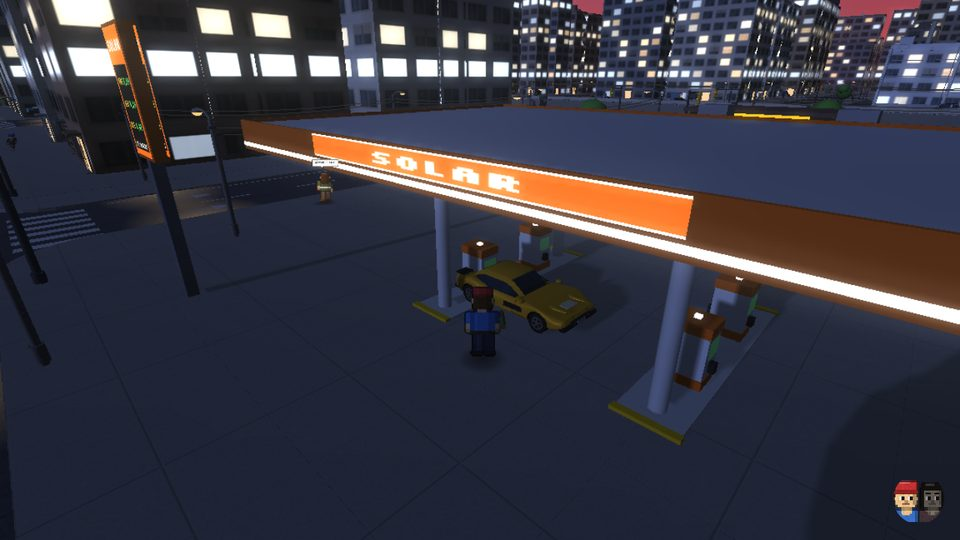
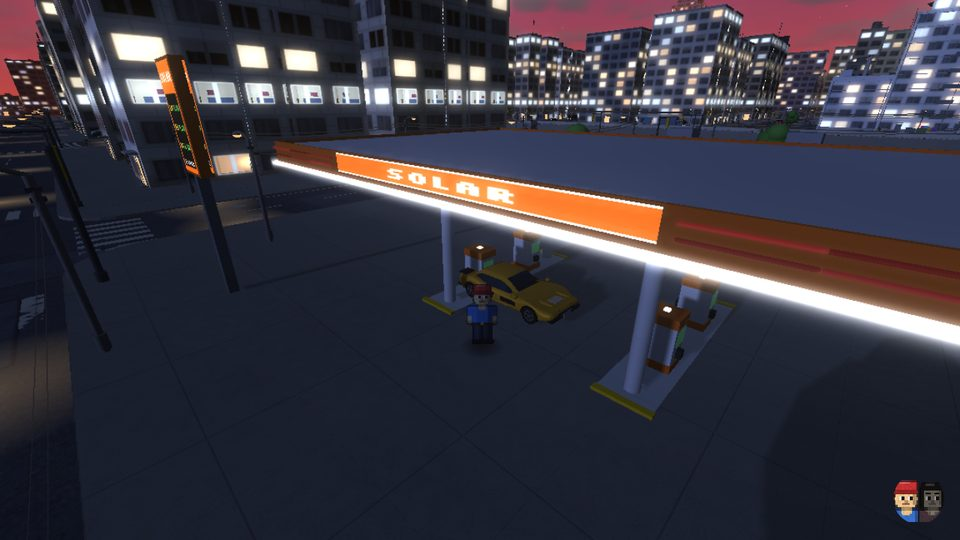
postos: neon da cobertura em tubo grosso com halo, 2 barras vermelhas fracas e sem falha a noite
Claude-Session: https://claude.ai/code/session_012roamZAz22JRDKZ6w9TpPT

diff --git a/js/06-posto-rodas.js b/js/06-posto-rodas.js
@@ -180,6 +180,15 @@ function gasVisual(st){const{W,D,ch}=st;const F0=st.F;if(!F0)return;const F={...
  const NE=burnt?d:n,cyl=(x,y0,y1,z,r,col)=>d.geo(GEO.cyl,mtx(x,(y0+y1)/2,z,r,y1-y0,r),col);
  const Wc=st.Wc||W,cu0=Wc*.14,cu1=Wc*.86,cv0=4.5,cv1=16.5,isl=st.isl,[sv0,sv1]=st.sv.map(v=>v+GAS_SHIFT),[su0,su1]=st.su||[W*.2,W*.8],sw=su1-su0,sc=(su0+su1)/2,SU=f=>su0+(f-.2)/.6*sw;
  const rf=new MB();rf.ab=1;st.roofSigns=[]; /* v4 r5: laje da cobertura num lote próprio, para ficar transparente na vista de cima */
+ /* v4 r19: neon da borda da cobertura em TUBO (cilindro com pontas redondas) + halo aditivo (lote gasHalo, 1 malha por posto) e
+    2 barras vermelhas fracas ("neon velho"). e = borda em coordenadas locais (u,v) na face externa: [u0,v0,u1,v1,du,dv]; gap = trecho sem tubo (letreiro) */
+ const hal=[],WT=COL('#ffffff'),tubeSeg=(e,t0,t1,y,r,col,mb,hk,caps,hw=1)=>{const[u0,v0,u1,v1,du,dv]=e,o=r+.012,ua=u0+(u1-u0)*t0+du*o,va=v0+(v1-v0)*t0+dv*o,ub=u0+(u1-u0)*t1+du*o,vb=v0+(v1-v0)*t1+dv*o,A=F.p3(ua,y,va),B=F.p3(ub,y,vb);
+   wseg(mb,A[0],A[1],A[2],B[0],B[1],B[2],r,col,GEO.cyl);if(caps)for(const Q of [A,B])mb.geo(GEO.bulb,mtx(Q[0],Q[1],Q[2],r,r,r),col);
+   if(hk>0&&!burnt){const O=F.p3(ua+du,y,va+dv);hal.push(A,B,[O[0]-A[0],O[2]-A[2]],r*hw,col,hk)}},
+  tube=(e,y,r,col,mb,hk,gap,dim,hw)=>{const L=Math.hypot(e[2]-e[0],e[3]-e[1]),cuts=[[0,1]];if(gap){const a=(gap[0]-Math.min(e[0],e[2]))/L,b=(gap[1]-Math.min(e[0],e[2]))/L;if(b>0&&a<1){cuts.length=0;if(a>.02)cuts.push([0,a]);if(b<.98)cuts.push([b,1])}}
+   for(const[c0,c1] of cuts){if(!dim){tubeSeg(e,c0,c1,y,r,col,mb,hk,true,hw);continue}
+    const n=Math.max(1,Math.round((c1-c0)*L/1.6)),gp=.02/L;for(let i=0;i<n;i++){const h=((i*37+Math.round(e[0]*7+e[1]*13+y*29))%11)/10,k=.55+.45*h;tubeSeg(e,c0+(c1-c0)*i/n+(i?gp:0),c0+(c1-c0)*(i+1)/n-(i<n-1?gp:0),y,r,col.clone().multiplyScalar(k),mb,hk*k,i===0||i===n-1)}}}, /* segmentos com 4 cm de folga (tubos separados, como neon de verdade; sem tampas coladas = sem z-fight) */
+  RDIM=COL('#ff2a2a').multiplyScalar(.36);
  // pátio: concreto mais claro sob a cobertura + mancha de queimado
  F.box(cu0-1,cu1+1,cv0-1,cv1+1,.26,.285,C(night?'#5a5468':'#b8b4aa'),d);
  if(burnt){for(let k=0;k<5;k++){const p=F.pt(W*(.3+.1*k),9+((k*37)%5));d.box(p[0]-3.5,.285,p[1]-3.2,p[0]+3.5,.29,p[1]+3.2,COL('#0c0b0a'))}}
@@ -197,16 +206,23 @@ function gasVisual(st){const{W,D,ch}=st;const F0=st.F;if(!F0)return;const F={...
   const a0=cu0-3.5,a1=cu1+3.5,b0=cv0+1.2,b1=cv1-1.2,y=5.5-sag;
   F.box(a0,a1,b0,b1,y+.18,y+.36,white,rf);F.box(a0+1,a1-1,b0+.6,b1-.6,y,y+.18,under,rf);
   F.box(a0,a1,b0-.06,b0,y+.12,y+.36,red,rf);F.box(a0,a1,b1,b1+.06,y+.12,y+.36,red,rf);F.box(a0-.06,a0,b0,b1,y+.12,y+.36,red,rf);F.box(a1,a1+.06,b0,b1,y+.12,y+.36,red,rf);
-  if(!burnt){F.box(a0,a1,b0-.1,b0-.06,y+.2,y+.28,COL('#ff3a3a'),n);F.box(a0,a1,b1+.06,b1+.1,y+.2,y+.28,COL('#ff3a3a'),n)}
+  {const E=[[a0-.06,b0-.06,a1+.06,b0-.06,0,-1],[a0-.06,b1+.06,a1+.06,b1+.06,0,1],[a0-.06,b0-.06,a0-.06,b1+.06,-1,0],[a1+.06,b0-.06,a1+.06,b1+.06,1,0]];
+   for(const e of E){tube(e,y+.24,.055,burnt?C('#ff3a3a'):COL('#ff4a40'),burnt?d:n,1,null,false,.55);if(!burnt)for(const yy of [y+.13,y+.35])tube(e,yy,.028,RDIM,n,.3,null,true)}} /* v4 r19: tubo vermelho grosso nas 4 bordas + 2 barras vermelhas fracas (antes 2 faixas chapadas de 8 cm só na frente e atrás) */
   for(const u of isl)for(const sd of [-1,1]){const A=F.p3(u,.28,10.7+sd*2.7),Bp=F.p3(u,y+.05,10.7+sd*.3);wseg(d,A[0],A[1],A[2],Bp[0],Bp[1],Bp[2],.16,red,GEO.cyl)}
   if(!burnt)for(let u=a0+2;u<a1-1.5;u+=3.4){const p=F.pt(u,b0+1.5),q=F.pt(u+1.4,b1-1.5);n.box(Math.min(p[0],q[0]),y-.04,Math.min(p[1],q[1]),Math.max(p[0],q[0]),y,Math.max(p[1],q[1]),COL('#fff6dc'))}
   if(!burnt&&night){const a=F.pt(a0,b0),b=F.pt(a1,b1);gl.flat(Math.min(a[0],b[0]),Math.min(a[1],b[1]),Math.max(a[0],b[0]),Math.max(a[1],b[1]),.3,COL('#fff2c8').multiplyScalar(.28))}
   {const c=cv(256,96),g=c.getContext('2d');g.font='900 84px Impact,Arial Black,sans-serif';g.textAlign='center';g.textBaseline='middle';g.lineWidth=10;g.strokeStyle='#ffffff';g.strokeText('GAS',128,52);g.fillStyle=burnt?'#2a1a1a':'#d8202a';g.fillText('GAS',128,52);
    const t=new THREE.CanvasTexture(c);const mt0=new THREE.MeshBasicMaterial({map:t,transparent:true,side:THREE.DoubleSide}),mt=S.style==='inverted'?unlitSignMat(mt0):mt0;const m=new THREE.Mesh(new THREE.PlaneGeometry(3.6,1.35),mt),p=F.p3(a0+2.4,y+1.05,b0+.4);m.position.set(p[0],p[1],p[2]);m.rotation.y=Math.atan2(st.nrm[0],st.nrm[1]);grp.add(m);st.roofSigns.push(m)}
- }else if(!burnt||true){const sag=burnt?.35:0;F.box(cu0,cu1,cv0,cv1,5.2-sag,5.95-sag,C(br.vc?'#f0dcd2':'#cfd0d4'),rf);for(const[a0,a1,b0,b1] of [[cu0-.08,cu1+.08,cv0-.08,cv0],[cu0-.08,cu1+.08,cv1,cv1+.08],[cu0-.08,cu0,cv0,cv1],[cu1,cu1+.08,cv0,cv1]]){F.box(a0,a1,b0,b1,5.2-sag,6.05-sag,C(br.a),rf);F.box(a0-.01,a1+.01,b0-.01,b1+.01,5.3-sag,5.42-sag,C(br.b),burnt?d:NE)}
+ }else if(!burnt||true){const sag=burnt?.35:0;F.box(cu0,cu1,cv0,cv1,5.2-sag,5.95-sag,C(br.vc?'#f0dcd2':'#cfd0d4'),rf);for(const[a0,a1,b0,b1] of [[cu0-.08,cu1+.08,cv0-.08,cv0],[cu0-.08,cu1+.08,cv1,cv1+.08],[cu0-.08,cu0,cv0,cv1],[cu1,cu1+.08,cv0,cv1]]){F.box(a0,a1,b0,b1,5.2-sag,6.05-sag,C(br.a),rf)} /* v4 r19: a faixa chapada de neon (5,3–5,42, a 1 cm da face) virou tubo (abaixo) */
   if(!burnt)for(let u=cu0+2;u<cu1-1;u+=3.2)for(const v of [7,10.5,14]){const a=F.pt(u,v-.5),b=F.pt(u+1.6,v+.5);n.box(Math.min(a[0],b[0]),5.15,Math.min(a[1],b[1]),Math.max(a[0],b[0]),5.2,Math.max(a[1],b[1]),COL('#fff6dc'))}
   if(!burnt&&night){const a=F.pt(cu0,cv0),b=F.pt(cu1,cv1);gl.flat(Math.min(a[0],b[0]),Math.min(a[1],b[1]),Math.max(a[0],b[0]),Math.max(a[1],b[1]),.3,COL('#fff2c8').multiplyScalar(.28))}
-  if(VC){for(const y of [5.3-sag,5.88-sag]){for(const[v0,v1] of [[cv0-.24,cv0-.08],[cv1+.08,cv1+.24]]){F.box(cu0-.24,Wc/2,v0,v1,y,y+.16,PK,n);F.box(Wc/2,cu1+.24,v0,v1,y,y+.16,CY,n)}F.box(cu0-.24,cu0-.08,cv0-.08,cv1+.08,y,y+.16,PK,n);F.box(cu1+.08,cu1+.24,cv0-.08,cv1+.08,y,y+.16,CY,n)}
+  {const g0=cu0-.08,g1=cu1+.08,h0=cv0-.08,h1=cv1+.08,sgw=Math.min(9,(cu1-cu0)*.5),gap=[Wc/2-sgw/2-.25,Wc/2+sgw/2+.25],
+    EF=[g0,h0,g1,h0,0,-1],EB=[g0,h1,g1,h1,0,1],EL=[g0,h0,g0,h1,-1,0],ER=[g1,h0,g1,h1,1,0];
+   if(VC){/* Synthwave: rosa na metade esquerda, ciano na direita, em dois níveis */
+    for(const[y,r,gp] of [[5.32-sag,.075,null],[5.95-sag,.06,gap]]){for(const e of [EF,EB]){tube([g0,e[1],Wc/2,e[1],0,e[5]],y,r,PK,n,1,gp);tube([Wc/2,e[1],g1,e[1],0,e[5]],y,r,CY,n,1,gp)}tube(EL,y,r,PK,n,1);tube(ER,y,r,CY,n,1)}
+    for(const yy of [5.56-sag,5.76-sag])for(const e of [EF,EB,EL,ER])tube(e,yy,.032,RDIM,n,.22,e===EF?gap:null,true)}
+   else{for(const e of [EF,EB,EL,ER]){tube(e,5.32-sag,.075,burnt?C(br.b):COL(br.b),NE,1);if(!burnt)for(const yy of [5.62,5.84])tube(e,yy,.032,RDIM,n,.22,e===EF?gap:null,true)}}} /* v4 r19: tubo grosso (raio 7,5 cm) + 2 barras vermelhas fracas; no Synth substitui as faixas de 16 cm */
+  if(VC){
    for(const[a0,a1,col] of [[cu0-3,Wc/2,PK],[Wc/2,cu1+3,CY]]){const a=F.pt(a0,cv0-3),b=F.pt(a1,cv1+3);gl.flat(Math.min(a[0],b[0]),Math.min(a[1],b[1]),Math.max(a[0],b[0]),Math.max(a[1],b[1]),.3,col.clone().multiplyScalar(.42))}}
   const sm0=gasTex('can',br,burnt),sm=S.style==='inverted'?unlitSignMat(sm0):sm0,sg=new THREE.PlaneGeometry(Math.min(9,(cu1-cu0)*.5),.52),m=new THREE.Mesh(sg,sm),p=F.p3(Wc/2,5.75-sag,cv0-.08);st.roofSigns.push(m);m.position.set(p[0]+st.nrm[0]*.02,p[1],p[2]+st.nrm[1]*.02);m.rotation.y=Math.atan2(st.nrm[0],st.nrm[1]);grp.add(m)}
  // loja de conveniência
@@ -237,9 +253,24 @@ function gasVisual(st){const{W,D,ch}=st;const F0=st.F;if(!F0)return;const F={...
   if(!burnt&&night)n.box(p[0]-1.05,8.6,p[1]-1.05,p[0]+1.05,8.7,p[1]+1.05,COL(br.b))}
  if(st.wash)try{washBuild(st,grp,C,d,n)}catch(e){console.error(e)}
  const add=(mb,mat,ro)=>{const m=mb.mesh(mat,true,true);if(m){grp.add(m);if(ro)m.renderOrder=ro}return m};add(d,M.solid);
- {const b=M.solid,mt=b.clone();mt.onBeforeCompile=b.onBeforeCompile;mt.customProgramCacheKey=b.customProgramCacheKey;mt.userData={...b.userData,cached:false};const m=add(rf,mt);st.roof=m?{m,mat:mt,a:1}:null}add(n,M.neon);add(h,M.hwinSoft||M.hwin);if(!city.st.noLamps)add(gl,M.glow,2);
+ {const b=M.solid,mt=b.clone();mt.onBeforeCompile=b.onBeforeCompile;mt.customProgramCacheKey=b.customProgramCacheKey;mt.userData={...b.userData,cached:false};const m=add(rf,mt);st.roof=m?{m,mat:mt,a:1}:null}add(n,M.neonSt||M.neon);add(h,M.hwinSoft||M.hwin);if(!city.st.noLamps)add(gl,M.glow,2); /* v4 r19: neon do posto fixo (M.neonSt: sem zumbido nem falha por célula de 12 m, que fazia o posto da cidade "falhar" à noite) */
+ if(hal.length&&!burnt&&!city.st.noLamps){const m=gasHaloMesh(hal);if(m){grp.add(m);m.renderOrder=3}}
  grp.position.y=-.24; // v77: sem o piso elevado: o pátio do posto assenta no concreto novo
  if(ch&&city.chunks.get(ch.key)===ch)ch.group.add(grp)}
+/* v4 r19: halo dos tubos de neon do posto. Faixa vertical aditiva na frente de cada tubo, com pontas redondas (3 quads: ponta, meio, ponta);
+   textura = núcleo claro estreito + brilho largo. Halos de alturas diferentes ficam a 6–12 mm um do outro (planos coincidentes contam como z-fight no detector). Material único (GAS.haloMat, cached); a opacidade acompanha o anoitecer em updateDayNight. */
+function gasHaloMat(){if(GAS.haloMat)return GAS.haloMat;const c=cv(64,64),g=c.getContext('2d'),im=g.createImageData(64,64);
+ for(let j=0;j<64;j++)for(let i=0;i<64;i++){const dx=(i+.5)/32-1,dy=(j+.5)/32-1,dd=Math.min(1,Math.hypot(dx,dy)),v=Math.min(1,Math.exp(-(dd/.13)*(dd/.13))*.9+Math.exp(-(dd/.5)*(dd/.5))*.42)*(1-dd*dd),q=(j*64+i)*4;im.data[q]=im.data[q+1]=im.data[q+2]=Math.round(255*v);im.data[q+3]=255}
+ g.putImageData(im,0,0);const t=new THREE.CanvasTexture(c);t.wrapS=t.wrapT=THREE.ClampToEdgeWrapping;
+ const m=jammerBasicMaterial(new THREE.MeshBasicMaterial({map:t,vertexColors:true,transparent:true,blending:THREE.AdditiveBlending,depthWrite:false,side:THREE.DoubleSide,polygonOffset:true,polygonOffsetFactor:-2,polygonOffsetUnits:-2}));m.userData.cached=true;GAS.haloMat=m;return m}
+function gasHaloMesh(H){const nq=H.length/6*3,pos=new Float32Array(nq*18),uv=new Float32Array(nq*12),col=new Float32Array(nq*18);let k=0;const W=new THREE.Color(1,1,1),cc=new THREE.Color();
+ const quad=(ax,az,bx,bz,y,w,ox,oz,ua,ub,c)=>{const v=[[ax,y-w,az,ua,0],[bx,y-w,bz,ub,0],[bx,y+w,bz,ub,1],[ax,y-w,az,ua,0],[bx,y+w,bz,ub,1],[ax,y+w,az,ua,1]];
+  for(const q of v){pos[k*3]=q[0]+ox;pos[k*3+1]=q[1];pos[k*3+2]=q[2]+oz;uv[k*2]=q[3];uv[k*2+1]=q[4];col[k*3]=c.r;col[k*3+1]=c.g;col[k*3+2]=c.b;k++}};
+ for(let i=0;i<H.length;i+=6){const A=H[i],B=H[i+1],O=H[i+2],r=H[i+3],hk=H[i+5];cc.copy(H[i+4]).lerp(W,.18).multiplyScalar(hk);
+  const ol=Math.hypot(O[0],O[1])||1,oo=r+.03+(Math.round(A[1]*20)%3)*.006,ox=O[0]/ol*oo,oz=O[1]/ol*oo,w=Math.max(.1,r*4.2),L=Math.hypot(B[0]-A[0],B[2]-A[2])||1,tx=(B[0]-A[0])/L,tz=(B[2]-A[2])/L,y=A[1];
+  quad(A[0]-tx*w,A[2]-tz*w,A[0],A[2],y,w,ox,oz,0,.5,cc);quad(A[0],A[2],B[0],B[2],y,w,ox,oz,.5,.5,cc);quad(B[0],B[2],B[0]+tx*w,B[2]+tz*w,y,w,ox,oz,.5,1,cc)}
+ const g=new THREE.BufferGeometry();g.setAttribute('position',new THREE.BufferAttribute(pos,3));g.setAttribute('uv',new THREE.BufferAttribute(uv,2));g.setAttribute('color',new THREE.BufferAttribute(col,3));
+ const m=new THREE.Mesh(g,gasHaloMat());m.frustumCulled=true;g.computeBoundingSphere();return m}
 function gasShot(pt,w){if(!pt)return;for(const st of GAS.list.values()){if(st.burnt||!st.pumps)continue;if(Math.abs(st.x-pt.x)>30||Math.abs(st.z-pt.z)>30)continue;
  for(const p of st.pumps)if(Math.hypot(pt.x-p[0],pt.z-p[1])<.95&&pt.y<2.5){st.hits+=w==='magnum'?2:1;for(let i=0;i<8;i++)emit(p[0],1.4,p[1],(Math.random()-.5)*4,Math.random()*3,(Math.random()-.5)*4,.3,.3,.06,0xffd070,true,1);
   if(st.hits>=2)gasExplode(st,true);return}}}

diff --git a/js/14-clima-policia.js b/js/14-clima-policia.js
@@ -341,7 +341,7 @@ function updateDayNight(dt,force){dt=eclipseStep(dt);if(ECLIPSE.on)force=true;co
  const lampF=Math.max(nf,DN.sL);LAMPF=lampF;
  for(const chk of city.chunks.values()){const IM=chk.lampIM;if(!IM)continue;let chg=false;for(const l of chk.lamps){if(l.broken)continue;const on=st.noLamps?false:(lampF>l.th&&!jammerBlocked(l.x,l.z));if(on!==l.on){l.on=on;chg=true;IM.head.setColorAt(l.i,on?LAMP_ON:LAMP_OFF);IM.glow.setMatrixAt(l.i,on&&S.lampLighting!==false?lampGlowM(l):ZM)}}
   if(chg){IM.head.instanceColor.needsUpdate=true;IM.glow.instanceMatrix.needsUpdate=true}}
- if(city.M)city.M.hwin.emissiveIntensity=st.noWindows?0:Math.max(0,(nf-.3)/.7)*.9;{const k=st.noWindows?0:Math.max(0,(nf-.25)/.6);if(city.M&&city.M.neonDN&&!st.noWindows){const v=.42+.58*Math.min(1,k);city.M.neonDN.color.setRGB(v,v,v)}for(const m of DN_SIGNS)m.emissiveIntensity=(m.userData.dnK||.5)*Math.min(1,k)}if(city.M&&city.M.hwinSoft)city.M.hwinSoft.emissiveIntensity=city.M.hwin.emissiveIntensity*.28;}
+ if(city.M)city.M.hwin.emissiveIntensity=st.noWindows?0:Math.max(0,(nf-.3)/.7)*.9;{const k=st.noWindows?0:Math.max(0,(nf-.25)/.6);if(city.M&&city.M.neonDN&&!st.noWindows){const v=.42+.58*Math.min(1,k);city.M.neonDN.color.setRGB(v,v,v)}for(const m of DN_SIGNS)m.emissiveIntensity=(m.userData.dnK||.5)*Math.min(1,k);if(GAS.haloMat)GAS.haloMat.opacity=.18+.82*Math.min(1,k)} /* v4 r19: halo do neon do posto acende com o anoitecer */if(city.M&&city.M.hwinSoft)city.M.hwinSoft.emissiveIntensity=city.M.hwin.emissiveIntensity*.28;}
 
 /* ================= FIRE & EXPLOSIONS ================= */
 const boomLight=new THREE.PointLight(0xff9040,0,55,2);boomLight.visible=true;scene.add(boomLight);let boomT=0,shake=0;
